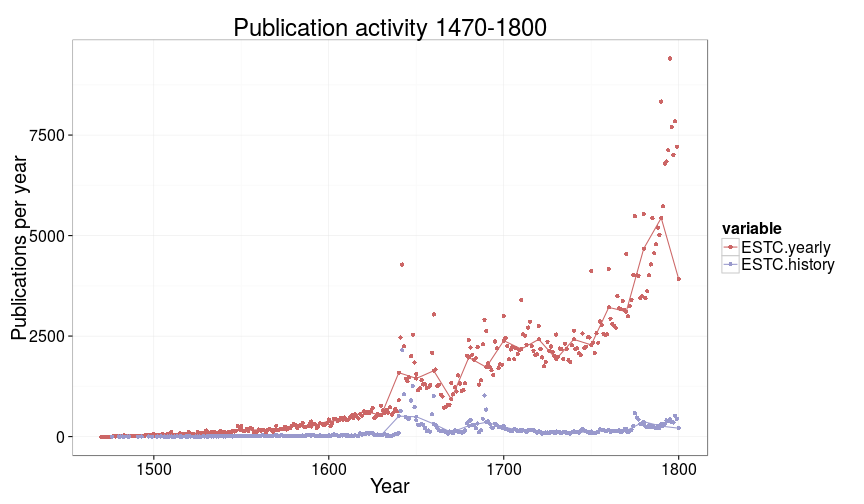
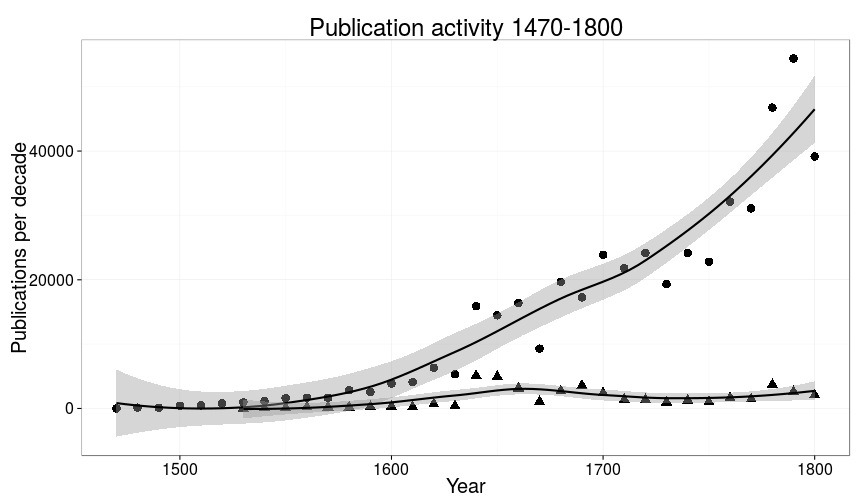
ok

diff --git a/inst/examples/20151023-LIBER.md b/inst/examples/20151023-LIBER.md
@@ -27,25 +27,46 @@ output: markdown_document
 ![plot of chunk 20151023LIBER-3](figure/20151023LIBER-3-1.png) 
 
 
-![plot of chunk 20151023LIBER-3b](figure/20151023LIBER-3b-1.png) 
-
-
 ![plot of chunk 20151023LIBER-4](figure/20151023LIBER-4-1.png) 
-
-
 
 
 ![plot of chunk 20151023LIBER-5](figure/20151023LIBER-5-1.png) 
 
 
+The UK map was generated by taking a screencapture of a video produced with:
 
-![plot of chunk 20151023LIBER-6](figure/20151023LIBER-6-1.png) 
+
+
+![UK1700](uk1700.png)
+
+![plot of chunk 20151023LIBER-3b](figure/20151023LIBER-3b-1.png) 
+
+
+
+
+```r
+theme_set(theme_bw(15))
+df2 <- df %>%
+    filter(!is.na(publication_country)) %>%
+    group_by(publication_country) %>%
+    summarize(paper = sum(paper.consumption.km2, na.rm = TRUE),
+	      docs = n()) %>%
+    arrange(desc(docs)) %>%
+    filter(publication_country %in% c("Scotland", "Ireland", "USA"))
+
+p1 <- ggplot(df2, aes(x = publication_country, y = docs)) + geom_bar(stat = "identity") + ggtitle("Title count") + theme(axis.text.x = element_text(angle = 45, hjust = 1)) + ylab("Documents") + xlab("")
+p2 <- ggplot(df2, aes(x = publication_country, y = paper)) + geom_bar(stat = "identity") + ggtitle("Paper consumption") + theme(axis.text.x = element_text(angle = 45, hjust = 1)) + ylab("Paper (km2)") + xlab("")
+grid.arrange(p1, p2, nrow = 1)
+```
+
+![plot of chunk 20150611paris-places4](figure/20150611paris-places4-1.png) 
+
 
 
 
 ![plot of chunk 20151023LIBER-8](figure/20151023LIBER-8-1.png) 
 
-
+![plot of chunk 20151023LIBER-14](figure/20151023LIBER-14-1.png) 
 
 
 ![plot of chunk 20151023LIBER-10a](figure/20151023LIBER-10a-1.png) 
@@ -77,16 +98,9 @@ output: markdown_document
 
 ![plot of chunk 20151023LIBER-12](figure/20151023LIBER-12-1.png) 
 
+Each point represents a decade. Loess smoothing.
 
 ![plot of chunk 20151023LIBER-13](figure/20151023LIBER-13-1.png) 
 
 
-![plot of chunk 20151023LIBER-14](figure/20151023LIBER-14-1.png) 
-
-
-
-![plot of chunk 20151023LIBER-15](figure/20151023LIBER-15-1.png) 
-
-
-![plot of chunk 20151023LIBER-16](figure/20151023LIBER-16-1.png) 
 
